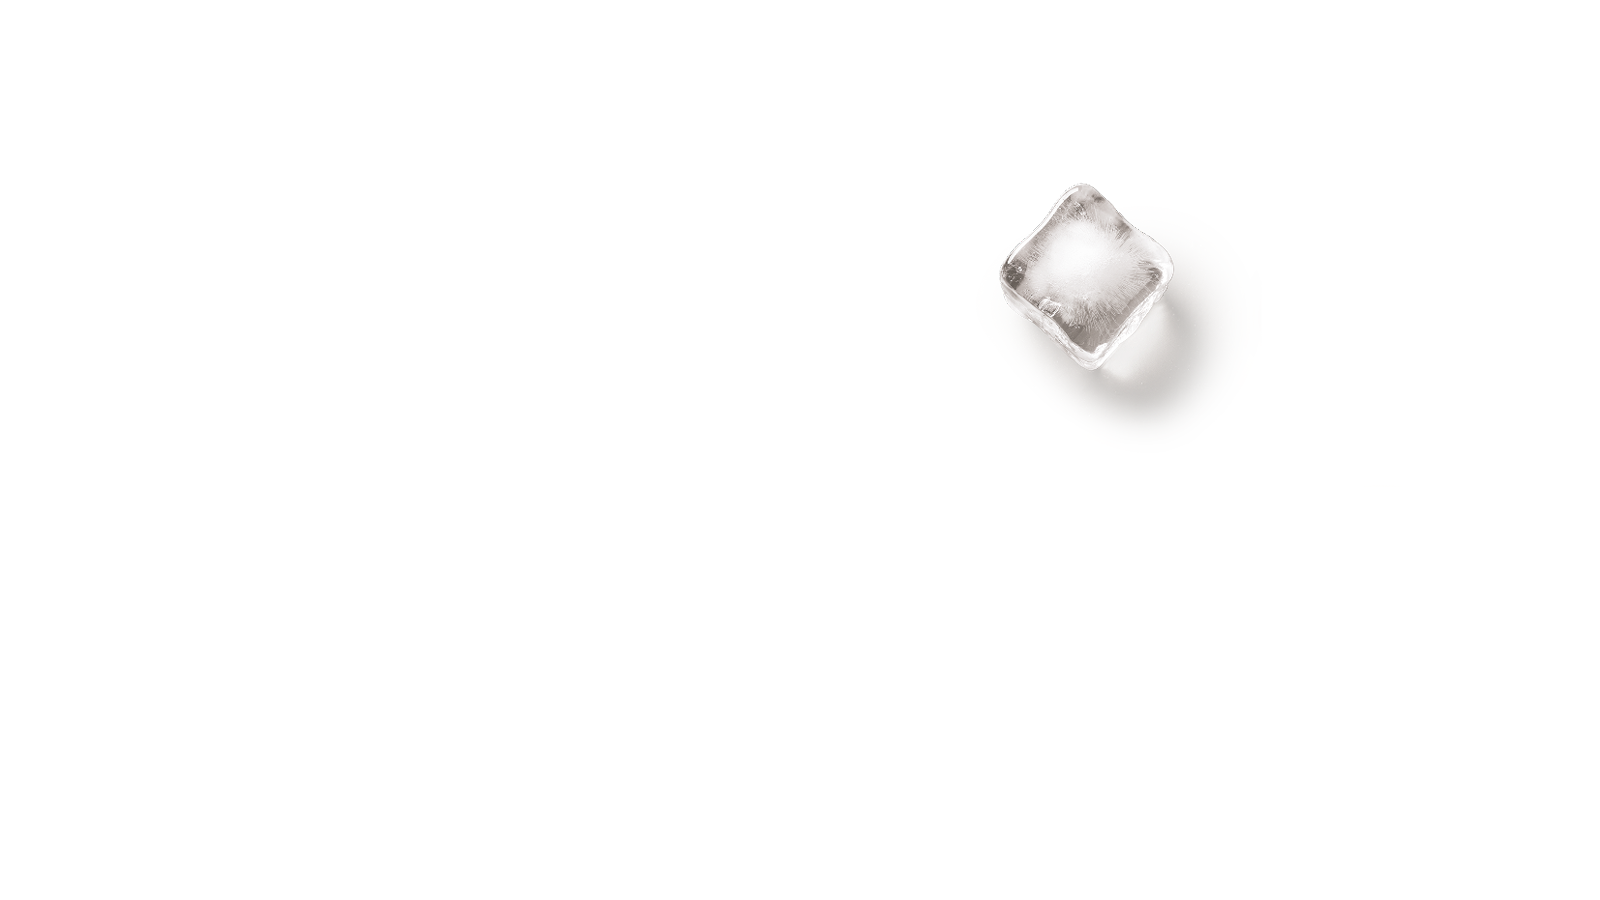
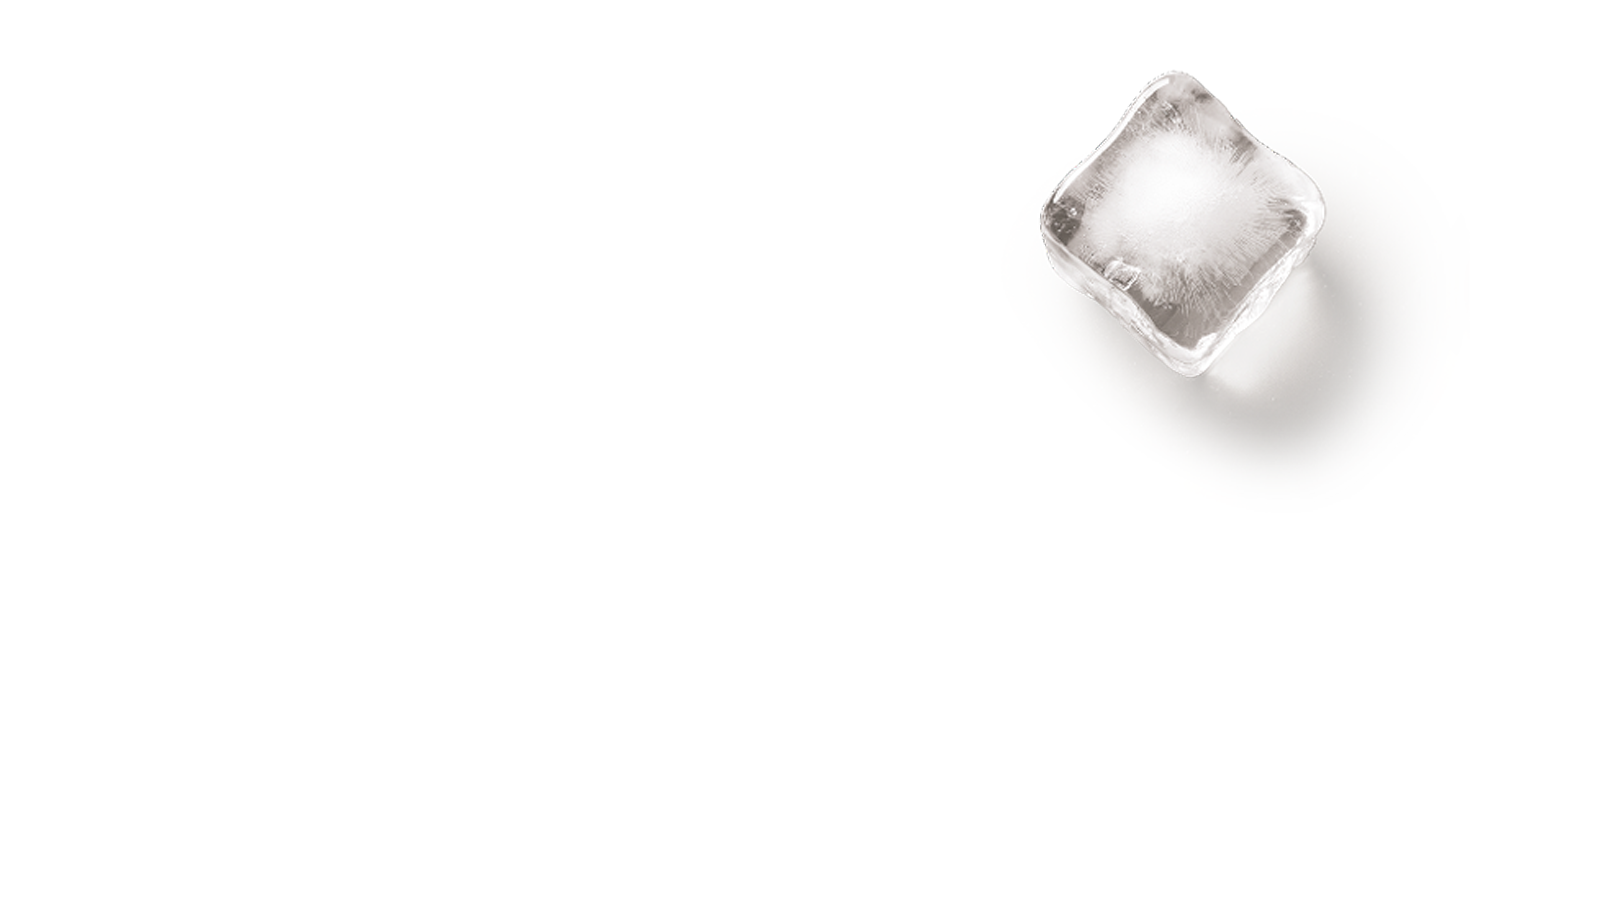
fix mobile design agaibn

Changed region(s): [[0.625, 0.0622, 0.875, 0.5289]]

diff --git a/src/pages/AboutPage/AboutPage.css b/src/pages/AboutPage/AboutPage.css
@@ -170,9 +170,15 @@
   }
 
   /* Image styling */
-  .about-image {
-    width: 80%;
-    max-width: 80%;
+  #image1-mobile,
+  #image2-mobile,
+  #image3-mobile {
+    display: flex;
+    align-items: center;
+    justify-content: center;
+    width: 100%;
+    max-width: 100%;
+    padding: 2rem 0;
   }
 
   .founder-section .full-width-section::before {

diff --git a/src/pages/HomePage/HomePage.css b/src/pages/HomePage/HomePage.css
@@ -201,6 +201,7 @@ section {
 
   #icebath-section {
     background-image: url("/src/assets/images/backgrounds/ice-isolated-2.1.png");
+    background-size: 55%;
   }
 
   .content-section {
